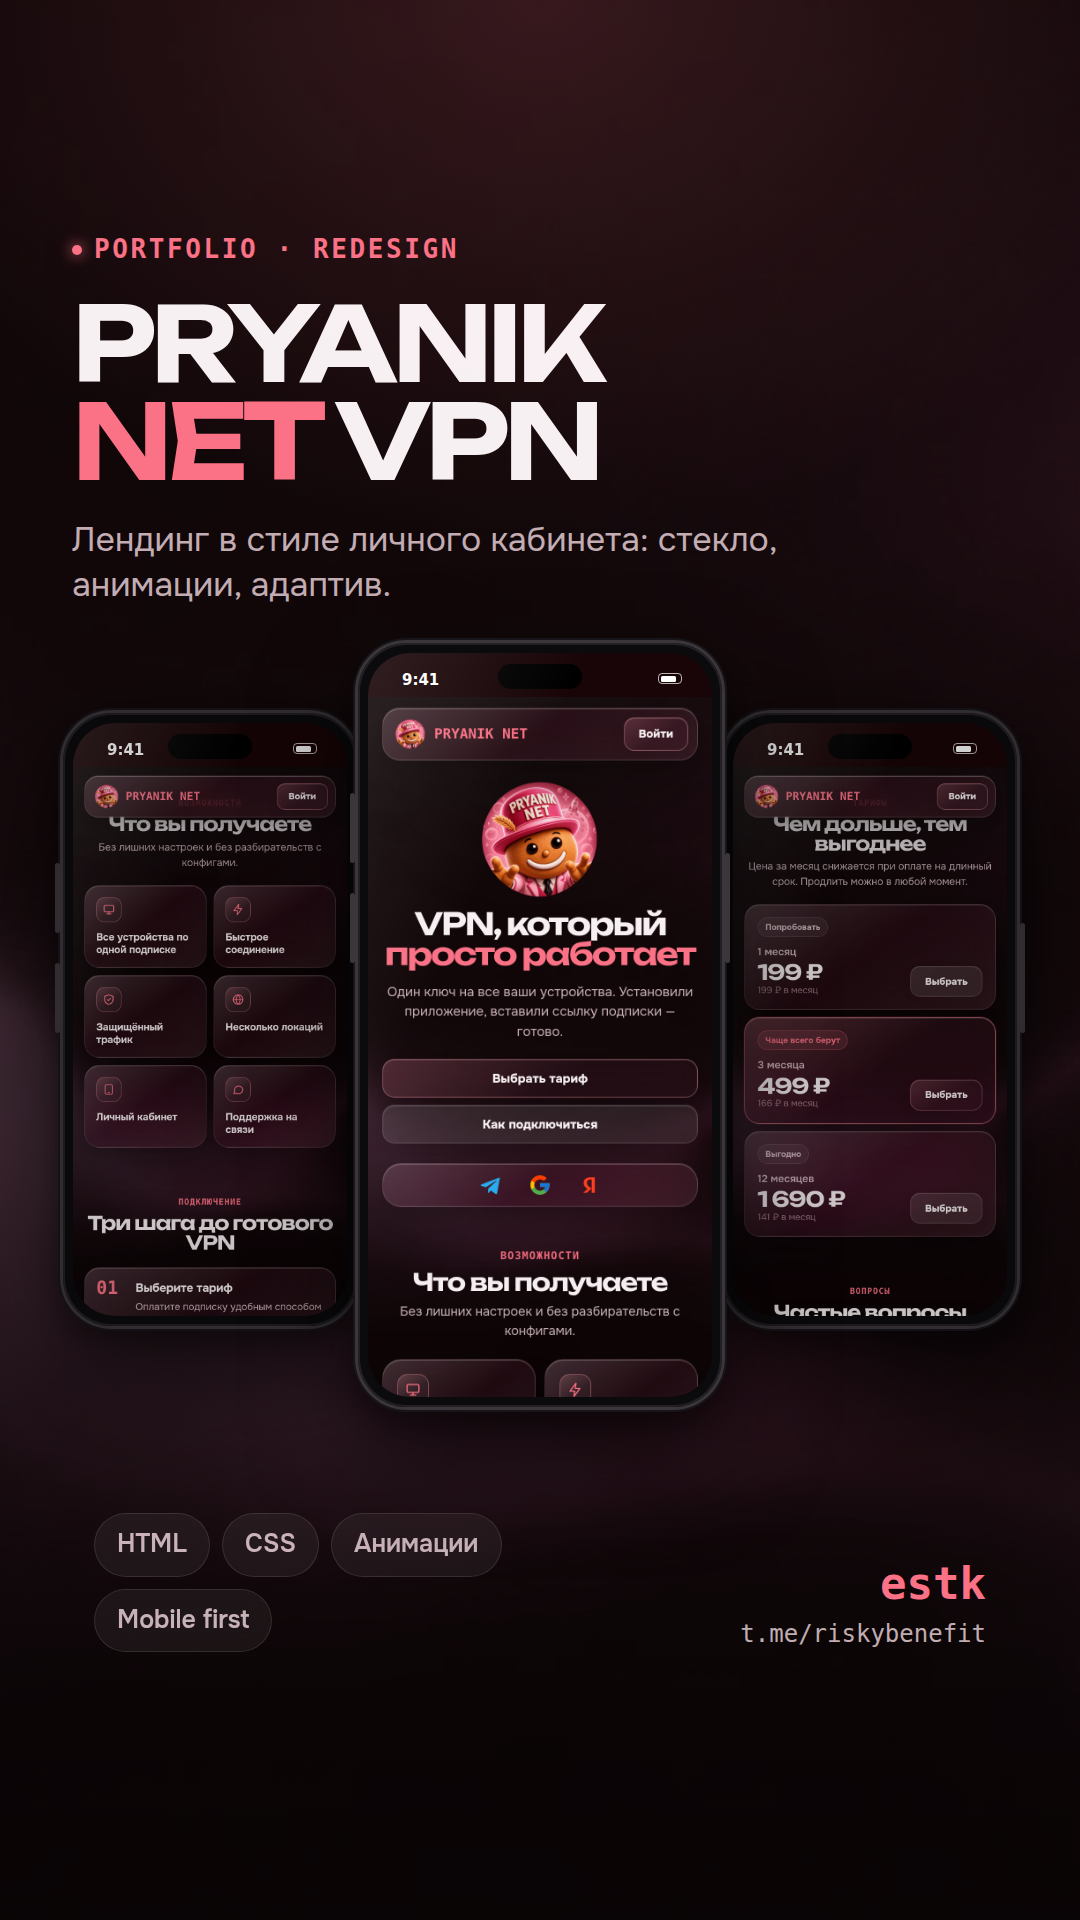
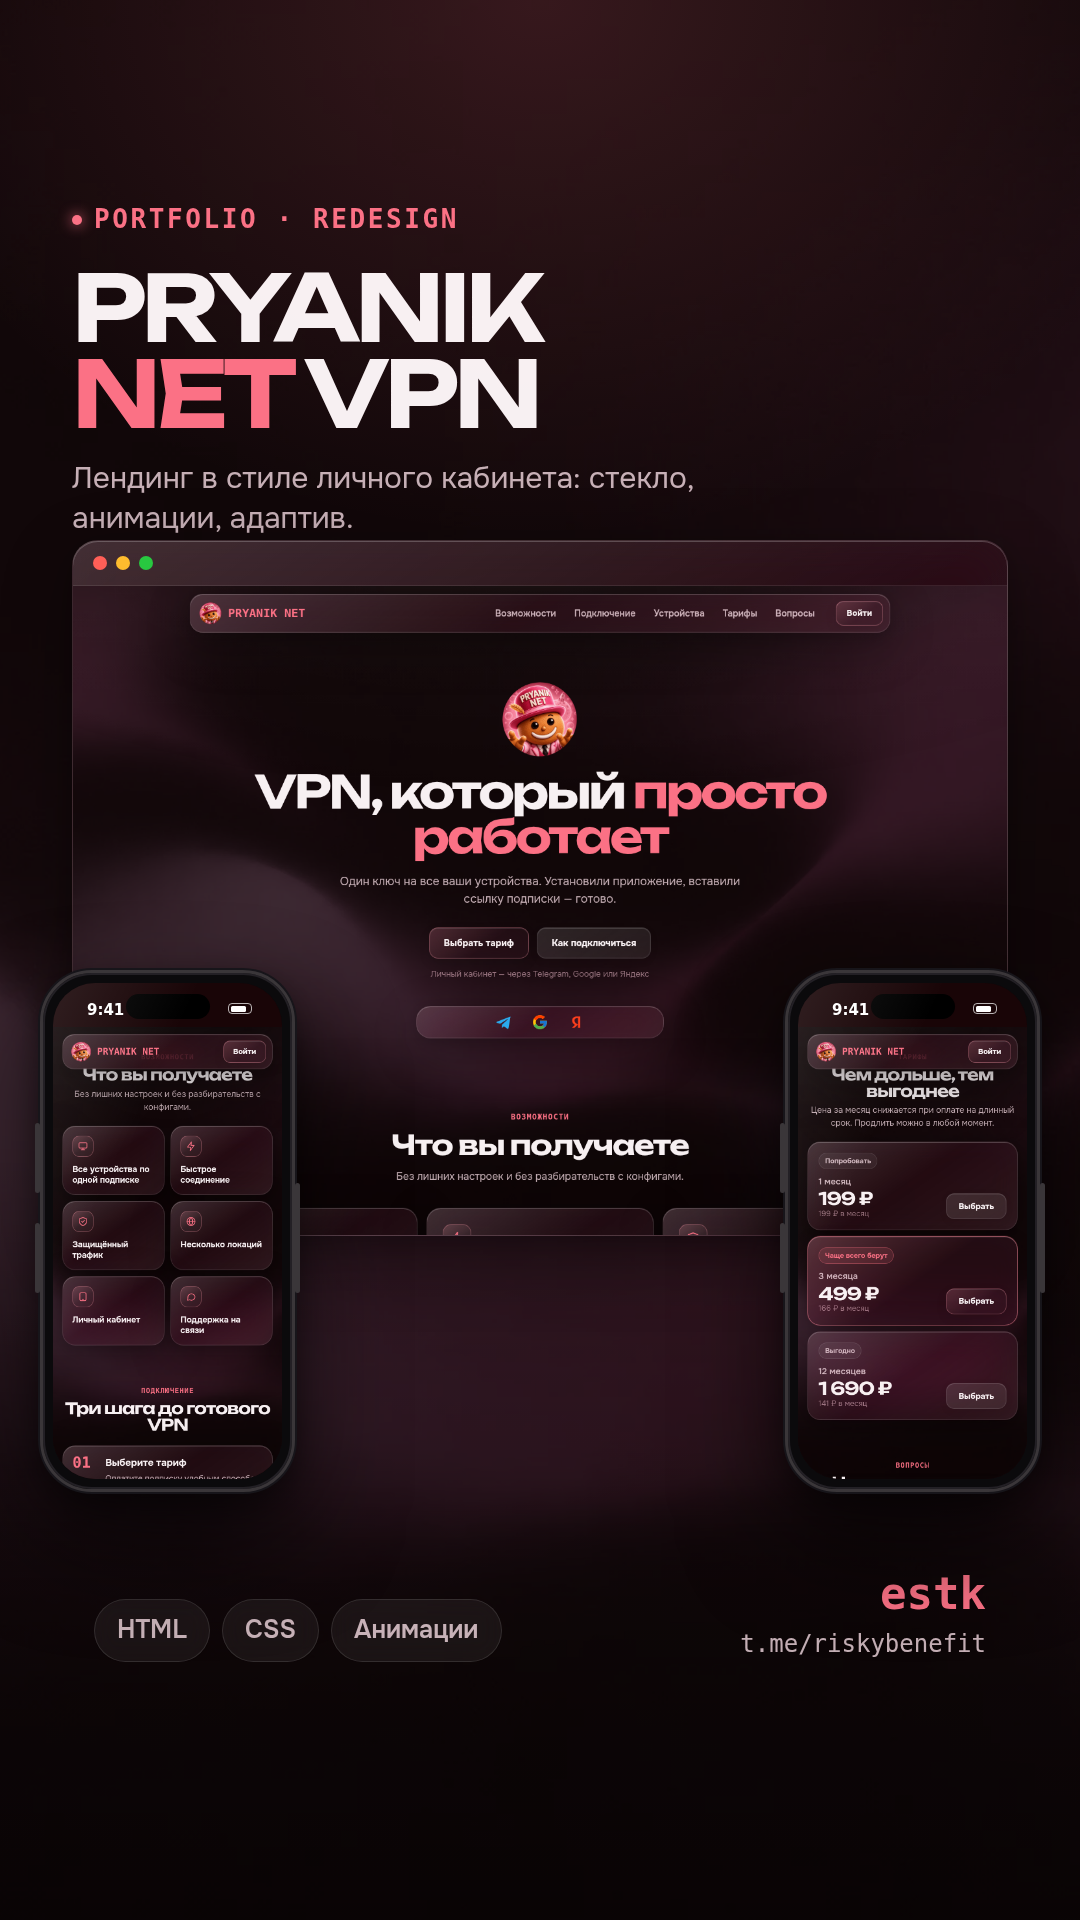
Story: desktop window plus two phones
Claude-Session: https://claude.ai/code/session_01LoewjAg2RbUAqsVYzxWfXA

diff --git a/pryanik-vpn/story/story.html b/pryanik-vpn/story/story.html
@@ -6,14 +6,14 @@ html,body{margin:0;width:1080px;height:1920px;overflow:hidden;background:var(--b
 .story{position:relative;width:1080px;height:1920px;overflow:hidden}
 .story::before{content:"";position:absolute;inset:-60px;background:url(../assets/bg.webp) center/cover;opacity:.5;filter:contrast(1.03) brightness(.5) grayscale(.6)}
 .story::after{content:"";position:absolute;inset:0;background:radial-gradient(90% 40% at 50% 0%,rgba(251,113,133,.16),transparent 70%),linear-gradient(180deg,transparent 60%,rgba(0,0,0,.45))}
-.in{position:absolute;inset:0;z-index:1;padding:230px 72px 0}
+.in{position:absolute;inset:0;z-index:1;padding:200px 72px 0}
 .tag{display:inline-flex;align-items:center;gap:12px;font-family:var(--font-mono);font-weight:700;font-size:26px;letter-spacing:.1em;text-transform:uppercase;color:var(--accent)}
 .tag i{width:10px;height:10px;border-radius:50%;background:var(--accent);box-shadow:0 0 14px var(--accent)}
-h1{margin:26px 0 0;font-family:var(--font-display);font-weight:650;font-size:104px;line-height:.94;letter-spacing:-.055em}
+h1{margin:26px 0 0;font-family:var(--font-display);font-weight:650;font-size:92px;line-height:.94;letter-spacing:-.055em}
 h1 em{font-style:normal;color:var(--accent)}
-.sub{margin-top:26px;font-size:34px;line-height:1.35;color:var(--muted);max-width:760px}
-.mock{position:absolute;left:0;right:0;top:640px;height:820px}
-.win{position:absolute;left:72px;top:0;width:900px;border-radius:26px;padding:0;transform:rotate(-2.2deg);transform-origin:left top}
+.sub{margin-top:20px;font-size:30px;line-height:1.35;color:var(--muted);max-width:760px}
+.mock{position:absolute;left:0;right:0;top:540px;height:900px}
+.win{position:absolute;left:72px;top:0;width:936px;border-radius:26px;padding:0}
 .win .top{display:flex;gap:9px;padding:15px 20px;border-bottom:1px solid rgba(255,255,255,.09)}
 .win .top i{width:14px;height:14px;border-radius:50%;background:#ff5f57}.win .top i:nth-child(2){background:#febc2e}.win .top i:nth-child(3){background:#28c840}
 .win img{display:block;width:100%}
@@ -23,14 +23,14 @@ h1 em{font-style:normal;color:var(--accent)}
 .phone::after{right:-8px;top:210px;height:110px}
 .phone .isl{position:absolute;left:50%;top:21px;width:84px;height:25px;margin-left:-42px;border-radius:20px;background:#000;z-index:2}
 .phone .glare{position:absolute;inset:10px;border-radius:42px;background:linear-gradient(115deg,rgba(255,255,255,.10),transparent 32%);pointer-events:none;z-index:3}
-.p-mid{left:50%;margin-left:-185px;top:0;width:370px;z-index:2}.p-side{width:300px;filter:brightness(.82)}
+.p-mid{left:50%;margin-left:-185px;top:0;width:370px;z-index:2}.p-side{width:255px;z-index:2}
 .scr{position:relative;overflow:hidden;border-radius:42px;background:#190507;aspect-ratio:390/844}
 .scr img{display:block;width:100%;margin-top:44px}
 .scr .sb{position:absolute;left:34px;right:30px;top:20px;display:flex;justify-content:space-between;font:600 15px/1 -apple-system,system-ui,sans-serif;color:#fff;z-index:1}
 .scr .sb i{display:inline-block;width:24px;height:11px;border:1.5px solid rgba(255,255,255,.7);border-radius:4px;position:relative}
 .scr .sb i::after{content:"";position:absolute;inset:1.5px;right:5px;background:#fff;border-radius:1.5px}
-.foot{position:absolute;left:72px;right:72px;bottom:250px;display:flex;align-items:flex-end;justify-content:space-between;gap:20px}
-.chips{display:flex;flex-wrap:wrap;gap:12px;max-width:560px}
+.foot{position:absolute;left:72px;right:72px;bottom:240px;display:flex;align-items:flex-end;justify-content:space-between;gap:20px}
+.chips{display:flex;flex-wrap:wrap;gap:12px;max-width:640px}
 .chip{padding:12px 22px;border-radius:999px;font-size:25px;font-weight:600;color:var(--muted);border:1px solid var(--lg-line-soft);background:rgba(255,255,255,.06);backdrop-filter:blur(12px)}
 .me{text-align:right;font-family:var(--font-mono)}
 .me b{display:block;font-size:44px;font-weight:900;color:var(--accent);line-height:1}
@@ -41,12 +41,12 @@ h1 em{font-style:normal;color:var(--accent)}
   <h1>PRYANIK<br><em>NET</em> VPN</h1>
   <p class="sub">Лендинг в стиле личного кабинета: стекло, анимации, адаптив.</p>
   <div class="mock">
-    <div class="phone p-side" style="left:60px;top:70px"><span class="isl"></span><div class="scr"><div class="sb"><span>9:41</span><i></i></div><img src="shot-m2.png" alt=""></div><span class="glare"></span></div>
-    <div class="phone p-side" style="right:60px;top:70px"><span class="isl"></span><div class="scr"><div class="sb"><span>9:41</span><i></i></div><img src="shot-m3.png" alt=""></div><span class="glare"></span></div>
-    <div class="phone p-mid"><span class="isl"></span><div class="scr"><div class="sb"><span>9:41</span><i></i></div><img src="shot-m1.png" alt=""></div><span class="glare"></span></div>
+    <div class="card win"><div class="top"><i></i><i></i><i></i></div><img src="shot-pc.png" alt=""></div>
+    <div class="phone p-side" style="left:40px;top:430px"><span class="isl"></span><div class="scr"><div class="sb"><span>9:41</span><i></i></div><img src="shot-m2.png" alt=""></div><span class="glare"></span></div>
+    <div class="phone p-side" style="right:40px;top:430px"><span class="isl"></span><div class="scr"><div class="sb"><span>9:41</span><i></i></div><img src="shot-m3.png" alt=""></div><span class="glare"></span></div>
   </div>
   <div class="foot">
-    <div class="chips"><span class="chip">HTML</span><span class="chip">CSS</span><span class="chip">Анимации</span><span class="chip">Mobile first</span></div>
+    <div class="chips"><span class="chip">HTML</span><span class="chip">CSS</span><span class="chip">Анимации</span></div>
     <div class="me"><b>estk</b><span>t.me/riskybenefit</span></div>
   </div>
 </div></div>
